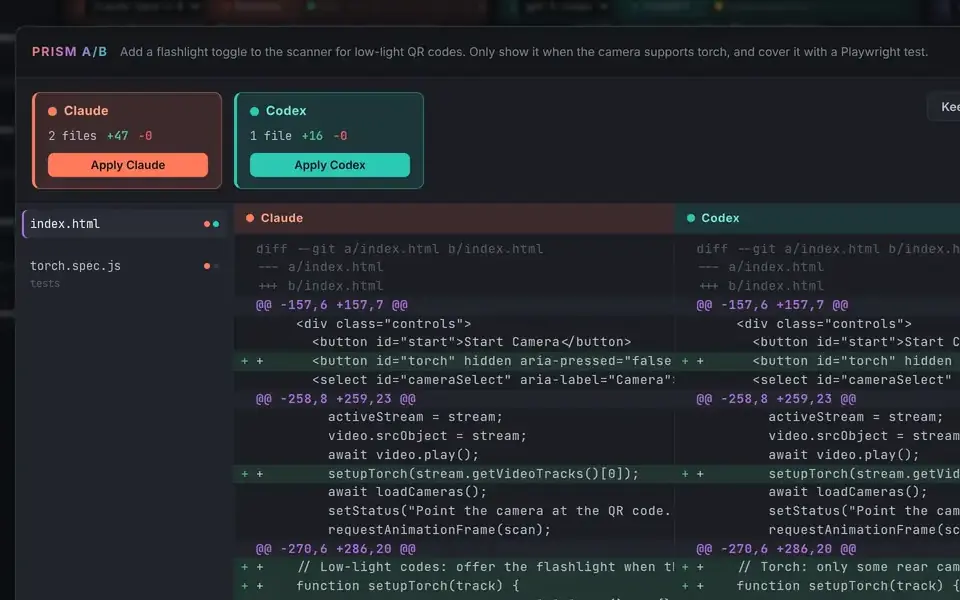
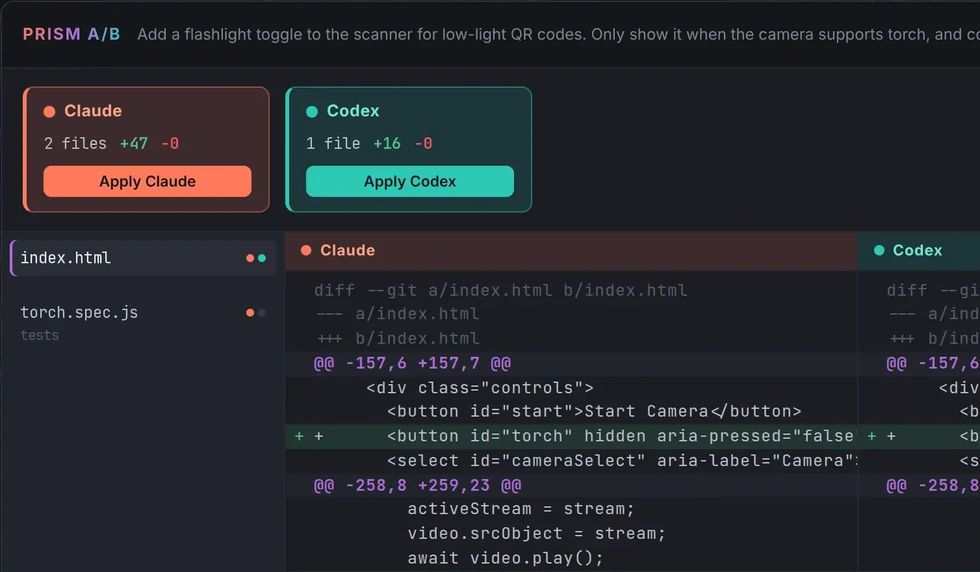
showcase: art round 2, the plan surveyed, doors as one family, the Bayzyl elevation
- hall plan: walls end on the surfaces they meet, rooms get doorways, piers in the ring, prism centred and inlaid,
  non-scaling strokes snapped to pixels, day-mode survey line and warm lantern, hover fill under the outline
- doors: one inset and gutter, 3x2 mosaic (home first view 22 -> 19 requests), Helm faces in two even rows,
  PrismCode door re-cropped from the 2x capture, text rows aligned across each pair via subgrid, subtitles clamped
- bench: a tower elevation drawn from the real /hcyl and /hpyramid numbers beside the stepper; step nav under the caption
- rooms: every band keeps color-scheme dark; notebook stays a blueprint band in day mode; 7x3 arcade wall;
  era placards beside the stage at wide widths

Claude-Session: https://claude.ai/code/session_01LNDcbCcy64DGsNuWVV1hR6

diff --git a/showcase/prismet-site/src/site.css b/showcase/prismet-site/src/site.css
@@ -168,29 +168,37 @@ section { scroll-margin-top: calc(var(--bar) + 12px); }
 .directory a:hover { border-color: var(--brass); }
 .ctas { display: flex; flex-wrap: wrap; gap: 10px; margin-top: 24px; }
 
-/* the hall plan */
-.plan { margin: 0; position: relative; }
+/* the hall plan: surveyed linework. Weights are screen pixels (non-scaling): court 1.5, rotunda 1.25, rooms, walls and
+   piers 1, the inner court and inner ring 1 at half strength, inlays 2. Axis-aligned lines snap to the pixel grid. */
+.plan { margin: 0; position: relative; --survey: var(--line); --beacon: var(--lantern); --glow: color-mix(in srgb, var(--lantern) 26%, transparent); --glow-blend: screen; --prism-fill: color-mix(in srgb, var(--brass) 14%, transparent); }
+:root[data-theme="light"] .plan, :root.day .plan { --survey: #5E7B93; --beacon: var(--brass); --glow: color-mix(in srgb, #F8D0A0 34%, transparent); --glow-blend: multiply; --glow-stop: 58%; --prism-fill: color-mix(in srgb, var(--brass) 8%, transparent); }
+@media (prefers-color-scheme: light) { :root:not([data-theme="dark"]) .plan { --survey: #5E7B93; --beacon: var(--brass); --glow: color-mix(in srgb, #F8D0A0 34%, transparent); --glow-blend: multiply; --glow-stop: 58%; --prism-fill: color-mix(in srgb, var(--brass) 8%, transparent); } }
 .plan svg { width: 100%; height: auto; overflow: visible; font-family: var(--serif); }
-.plan .court, .plan .rotunda, .plan .room, .plan .wall, .plan .pier { fill: none; stroke: var(--line); stroke-width: 1.2; vector-effect: non-scaling-stroke; }
-.plan .court.inner, .plan .rotunda.inner { stroke-opacity: .55; }
-.plan .pier { fill: color-mix(in srgb, var(--line) 35%, transparent); }
-.plan .prism { fill: none; stroke: var(--brass); stroke-width: 2; stroke-linejoin: round; }
-.plan .beam-in { stroke: var(--ink); stroke-width: 2; stroke-linecap: round; opacity: .8; }
-.plan .beacon { stroke: var(--lantern); stroke-width: 1; opacity: .5; }
-.plan .inlay { stroke-width: 3; stroke-linecap: round; }
+.plan .court, .plan .rotunda, .plan .room, .plan .wall, .plan .pier { fill: none; stroke: var(--survey); stroke-width: 1; vector-effect: non-scaling-stroke; }
+.plan .court { stroke-width: 1.5; }
+.plan .rotunda { stroke-width: 1.25; }
+.plan .court.inner, .plan .rotunda.inner { stroke-width: 1; stroke-opacity: .5; }
+.plan .court, .plan .room, .plan .pier { shape-rendering: crispEdges; }
+.plan .pier { fill: color-mix(in srgb, var(--survey) 40%, transparent); }
+.plan .prism { fill: var(--prism-fill); stroke: var(--brass); stroke-width: 1.5; stroke-linejoin: miter; vector-effect: non-scaling-stroke; }
+.plan .beam-in { stroke: var(--ink); stroke-width: 1.5; opacity: .85; vector-effect: non-scaling-stroke; }
+.plan .beacon { stroke: var(--beacon); stroke-width: 1; opacity: .7; vector-effect: non-scaling-stroke; }
+.plan .inlay { stroke-width: 2; vector-effect: non-scaling-stroke; }
 .plan .room-fill { fill: var(--surface); opacity: 0; transition: opacity .25s; }
 .plan .room-name { font-size: 20px; fill: var(--ink); font-weight: 500; }
-.plan .room-lead { font-size: 16px; fill: var(--ink-2); font-style: italic; }
+.plan .room-lead { font-size: 17px; fill: var(--ink-2); font-style: italic; }
 .plan .wing { cursor: pointer; outline: none; }
 .plan .wing:hover .room-fill, .plan .wing:focus-visible .room-fill { opacity: 1; }
-.plan .wing:hover .room, .plan .wing:focus-visible .room { stroke: var(--ink); stroke-width: 1.6; }
+.plan .wing:hover .room, .plan .wing:focus-visible .room { stroke: var(--ink); stroke-width: 1.5; }
 .plan .wing:focus-visible .room { stroke: var(--brass); stroke-width: 3; }
 .plan .wing:hover .room-name { fill: var(--brass-ink); }
-.lantern { position: absolute; left: var(--lx, 50%); top: var(--ly, 50%); width: 42%; aspect-ratio: 1; transform: translate(-50%, -50%); pointer-events: none; opacity: var(--lo, .55);
-  background: radial-gradient(closest-side, color-mix(in srgb, var(--lantern) 22%, transparent), transparent 70%); mix-blend-mode: screen; transition: left .45s var(--ease), top .45s var(--ease), opacity .45s; }
-:root[data-theme="light"] .lantern, :root.day .lantern { mix-blend-mode: multiply; opacity: calc(var(--lo, .55) * .6); }
-@media (prefers-color-scheme: light) { :root:not([data-theme="dark"]) .lantern { mix-blend-mode: multiply; opacity: calc(var(--lo, .55) * .6); } }
+/* One lantern. At rest it pools in the rotunda; on a wing it widens to light the room. */
+.lantern { position: absolute; left: var(--lx, 50%); top: var(--ly, 50%); width: 30%; aspect-ratio: 1; transform: translate(-50%, -50%); pointer-events: none; opacity: var(--lo, .55);
+  background: radial-gradient(closest-side, var(--glow), transparent var(--glow-stop, 72%)); mix-blend-mode: var(--glow-blend); transition: left .45s var(--ease), top .45s var(--ease), width .45s var(--ease), opacity .45s; }
+.plan:has(.wing:hover, .wing:focus-visible) .lantern { width: 42%; }
 .plan figcaption { margin-top: 10px; font-size: var(--t-sm); color: var(--ink-3); font-style: italic; }
+/* The caption hangs below the drawing, so the figure is the drawing and the lantern's 50% is the rotunda. */
+@media (min-width: 901px) { .plan { margin-bottom: 40px; } .plan figcaption { position: absolute; top: 100%; left: 0; right: 0; } }
 .wing-list { display: none; list-style: none; padding: 0; margin: 12px 0 0; grid-template-columns: 1fr 1fr; gap: 6px 14px; font-style: normal; }
 .wing-list a { display: flex; align-items: center; gap: 9px; text-decoration: none; color: var(--ink); min-height: 44px; padding: 4px 0; border-bottom: 1px solid var(--hair); }
 .wing-list i { width: 14px; height: 3px; background: var(--h); border-radius: 2px; flex: none; }
@@ -200,10 +208,12 @@ section { scroll-margin-top: calc(var(--bar) + 12px); }
 .plan.draw .g-court [pathLength] { --d: 0; }
 .plan.draw .g-rotunda [pathLength] { --d: .35; }
 .plan.draw .wing [pathLength] { --d: calc(.6 + var(--i, 0) * .09); }
+.plan.draw .prism, .plan.draw .pier { animation: draw .9s var(--ease) .35s forwards, fill-in .5s var(--ease) 1.1s both; }   /* the inlay fills once its edge is drawn */
 .plan.draw text { opacity: 0; animation: appear .4s .9s forwards; }
 .plan.draw .wing text { animation-delay: calc(1.3s + var(--i, 0) * .09s); }
 @keyframes draw { to { stroke-dashoffset: 0; } }
 @keyframes appear { to { opacity: 1; } }
+@keyframes fill-in { from { fill-opacity: 0; } }
 
 @media (max-width: 900px) {
   .entrance .wrap { grid-template-columns: 1fr; }
@@ -234,33 +244,42 @@ section { padding-block: clamp(40px, 6vw, 80px); }
 #work { background: var(--surface); border-block: 1px solid var(--hair); }
 .count { font-size: .72rem; letter-spacing: .08em; text-transform: uppercase; color: var(--ink-3); }
 
-/* principal works: four doors */
-.doors { display: grid; grid-template-columns: 1fr 1fr; gap: clamp(20px, 3vw, 40px) clamp(20px, 3vw, 48px); }
-.door { display: grid; grid-template-rows: auto 1fr; gap: 16px; }
-.door-media { display: block; text-decoration: none; border: 1px solid var(--hair); background: var(--surface); overflow: hidden; position: relative; aspect-ratio: 16 / 10; }
+/* principal works: four doors, one family. Each module sits on its room's material inside a 16:10 frame, inset by one
+   margin (5% of the door's width) with one gutter (3%); below it, typeline, title, subtitle, facts and access share
+   rows across each pair of doors, so the two columns keep one rhythm whatever the copy. */
+.doors { --door-gap: clamp(28px, 4vw, 56px); display: grid; grid-template-columns: 1fr 1fr; column-gap: clamp(20px, 3vw, 48px); margin-bottom: calc(-1 * var(--door-gap)); }
+.door { display: grid; grid-template-rows: auto 1fr; align-content: start; padding-bottom: var(--door-gap); }
+@supports (grid-template-rows: subgrid) {
+  .door { grid-row: span 6; grid-template-rows: subgrid; row-gap: 0; }
+  .door-text { grid-row: span 5; display: grid; grid-template-rows: subgrid; row-gap: 0; }
+}
+.door-media { display: block; text-decoration: none; border: 1px solid var(--hair); background: var(--surface); overflow: hidden; position: relative; aspect-ratio: 16 / 10; container-type: inline-size; }
 .door-media:hover { border-color: var(--rule); }
-.door-media .mod { position: absolute; inset: 0; margin: 0; }
-.door-media img { width: 100%; height: 100%; object-fit: cover; }
-.door-text .typeline { display: flex; align-items: center; gap: 10px; font-size: .95rem; color: var(--hi); }
+.door-media .mod { position: absolute; inset: 0; margin: 0; padding: 5%; padding: 5cqw; }
+.door-text > * { align-self: start; }
+.door-text .typeline { margin-top: 18px; display: flex; align-items: center; gap: 10px; font-size: .95rem; color: var(--hi); }
 .door-text .typeline i { width: 18px; height: 3px; background: var(--h); border-radius: 2px; }
-.door-text h3 { margin-top: 8px; font-size: var(--t-xl); }
+.door-text h3 { margin-top: 6px; font-size: var(--t-xl); }
 .door-text h3 a { text-decoration: none; }
 .door-text h3 a:hover { color: var(--brass-ink); }
-.door-text .sub { margin-top: 8px; color: var(--ink-2); font-size: var(--t-base); line-height: 1.5; display: -webkit-box; -webkit-line-clamp: 3; -webkit-box-orient: vertical; overflow: hidden; }
-.door-text .facts { margin-top: 14px; }
+.door-text .sub { margin-top: 8px; color: var(--ink-2); font-size: var(--t-base); line-height: 1.5; display: -webkit-box; -webkit-line-clamp: 2; line-clamp: 2; -webkit-box-orient: vertical; overflow: hidden; }
+.door-text .facts { margin-top: 16px; align-self: stretch; }
 .door-text .access { margin-top: 14px; display: flex; flex-wrap: wrap; align-items: center; gap: 8px 16px; }
 @media (max-width: 760px) { .doors { grid-template-columns: 1fr; } }
 
 /* door modules */
-.bench-door img { object-fit: cover; object-position: center 60%; }
-.bench-door figcaption { position: absolute; left: 0; right: 0; bottom: 0; padding: 10px 14px; background: color-mix(in srgb, #0B0D0F 86%, transparent); color: #FFAA00; display: flex; justify-content: space-between; gap: 12px; align-items: baseline; font-family: var(--mono); font-stretch: 87.5%; font-size: .78rem; }
+.bench-door { background: #2A2C2E; display: flex; flex-direction: column; gap: 2.5cqw; }
+.bench-door img { flex: 1 1 0; min-height: 0; width: 100%; object-fit: cover; object-position: center 58%; }
+.bench-door figcaption { display: flex; justify-content: space-between; gap: 12px; align-items: baseline; color: #FFAA00; font-family: var(--mono); font-stretch: 87.5%; font-size: .78rem; line-height: 1.25; }
 .bench-door figcaption span { color: #E6E1D4; font-family: var(--serif); font-style: italic; font-size: .92rem; font-stretch: normal; }
-.tile-mosaic { display: grid; grid-template-columns: repeat(3, 1fr); gap: 6%; padding: 7%; background: #0B0C14; }
-.tile-mosaic img { width: 100%; height: auto; border-radius: 18%; box-shadow: 0 10px 24px rgba(0, 0, 0, .5); }
-.face-quad { display: grid; grid-template-columns: 1fr 1fr; gap: 4%; padding: 5%; background: #1C0006; align-content: center; }
-.face-quad img { width: 100%; height: auto; box-shadow: 0 10px 24px rgba(0, 0, 0, .5); }
-.plate-door img { object-fit: cover; object-position: top left; }
-[data-room="notebook"] .plate-door img { width: 150%; height: 150%; max-width: none; object-position: 0 0; }
+.tile-mosaic { background: #0B0C14; display: grid; grid-template-columns: repeat(3, 24.75cqw); grid-auto-rows: 24.75cqw; gap: 3cqw; justify-content: center; align-content: center; }
+.tile-mosaic img { width: 100%; height: 100%; border-radius: 18%; box-shadow: 0 8px 20px rgba(0, 0, 0, .45); }
+.face-quad { background: #1C0006; display: flex; flex-direction: column; justify-content: center; gap: 3cqw; }
+.face-row { display: grid; gap: 3cqw; }      /* columns are set per row, in proportion to each face */
+.face-row img { width: 100%; height: auto; box-shadow: 0 8px 20px rgba(0, 0, 0, .45); }
+.plate-door { display: flex; align-items: center; justify-content: center; }
+.plate-door img { width: 100%; height: 100%; object-fit: cover; object-position: top left; }
+[data-room="notebook"] .plate-door { background: #17212B; }   /* a detail of the A/B panel, cut at the panel's own top-left corner */
 
 /* facts: the ledger table */
 .facts { display: grid; grid-template-columns: repeat(auto-fit, minmax(140px, 1fr)); gap: 0; border-top: 1px solid var(--rule); border-bottom: 1px solid var(--rule); margin: 0; }
@@ -465,6 +484,7 @@ footer a:hover { color: var(--ink); }
 /* ── rooms: the material of each page ─────────────────────────────────────────────────────── */
 [data-room="bench"] .sig { background: #2A2C2E; color: #E6E1D4; --brass: #C9A260; --live: #9C8BD6; --ink: #E6E1D4; --ground: #2A2C2E; --surface: #343639; --ink-2: #C8C3B6; --ink-3: #9A958A; --rule: rgba(230, 225, 212, .22); --hair: rgba(230, 225, 212, .1); --brass-ink: #E0BC6E; }
 [data-room="bench"] .sig { padding-block: 28px 32px; }
+[data-room] .sig { color-scheme: dark; }   /* every band stays dark in day mode, so native controls and scrollbars do too */
 .stepper { display: grid; gap: 14px; }
 .steps { list-style: none; padding: 0; margin: 0; display: grid; gap: 28px; max-width: 820px; }
 .js .step { grid-area: 1 / 1; }
@@ -479,10 +499,30 @@ footer a:hover { color: var(--ink); }
 .step-nav output { font-family: var(--mono); font-stretch: 87.5%; font-size: .74rem; letter-spacing: .06em; color: var(--ink-2); min-width: 7em; text-align: center; }
 .step-nav .btn { width: 44px; padding: 0; justify-content: center; }
 .js .steps { transition: none; }
-@media (min-width: 900px) { .stepper { grid-template-columns: minmax(0, 1fr) auto; align-items: end; } }
+/* the bench: the stepper, and beside it the tower drawn in elevation from its command (chalk on stone) */
+.bench-grid { display: grid; gap: 32px; align-items: start; }
+@media (min-width: 1000px) { .bench-grid { grid-template-columns: minmax(0, 820px) minmax(200px, 232px); justify-content: space-between; } }
+.elevation { margin: 0; display: grid; grid-template-columns: min(40%, 200px) minmax(0, 340px); gap: 20px; align-items: end; }
+@media (min-width: 1000px) { .elevation { display: block; } }
+.elevation svg { width: 100%; height: auto; overflow: visible; font-family: var(--mono); font-stretch: 87.5%; }
+.elevation .line, .elevation .fine, .elevation .ground, .elevation .dim, .elevation .axis { fill: none; stroke: var(--ink); vector-effect: non-scaling-stroke; }
+.elevation .line { stroke-width: 1.25; stroke-opacity: .92; stroke-linejoin: miter; }
+.elevation .ground { stroke-width: 1.5; }
+.elevation .fine { stroke-width: 1; stroke-opacity: .38; }
+.elevation .dim { stroke: var(--ink-3); stroke-width: 1; }
+.elevation .axis { stroke: var(--ink-3); stroke-width: 1; stroke-dasharray: 14 3 2 3; vector-effect: none; }
+.elevation text { font-size: 13px; font-weight: 500; fill: var(--ink-2); dominant-baseline: central; }
+@media (max-width: 999px) { .elevation text { font-size: 17px; } }   /* the drawing is smaller beside its caption */
+.elevation figcaption { display: grid; gap: 6px; justify-items: start; }
+@media (min-width: 1000px) { .elevation figcaption { margin-top: 14px; } }
+.elevation .elev-title { font-family: var(--serif); font-variant-caps: all-small-caps; letter-spacing: .06em; font-weight: 500; font-variation-settings: 'opsz' 20; font-size: .95rem; color: var(--ink-3); }
+.elevation .cmd { font-size: .76rem; line-height: 1.45; color: #FFAA00; overflow-wrap: anywhere; }
+.elevation .cmd b { font-weight: 500; color: var(--ink); white-space: nowrap; }   /* the numbers the drawing is dimensioned from */
+.elevation small { margin-top: 2px; font-style: italic; font-size: var(--t-sm); line-height: 1.4; color: var(--ink-2); }
 
 [data-room="arcade"] .sig { background: #0B0C14; color: #F2F4FC; --brass: #C9A260; --live: #9C8BD6; --ink: #F2F4FC; --ground: #0B0C14; --surface: #161828; --ink-2: #C3C5D4; --ink-3: #8E91A3; --rule: rgba(242, 244, 252, .2); --hair: rgba(242, 244, 252, .1); --brass-ink: #E2B65C; padding-block: 28px 36px; }
 .tiles { list-style: none; padding: 0; margin: 0; display: grid; grid-template-columns: repeat(auto-fill, minmax(96px, 1fr)); gap: 18px 14px; }
+@media (min-width: 760px) { .tiles { grid-template-columns: repeat(7, minmax(0, 1fr)); gap: 22px 14px; } }   /* 21 tiles, three full rows */
 .tiles li { text-align: center; font-size: .9rem; }
 .tiles img { width: 72px; height: 72px; margin: 0 auto 8px; border-radius: 17px; box-shadow: 0 8px 20px rgba(0, 0, 0, .5); }
 .tiles span { display: block; font-weight: 500; }
@@ -514,13 +554,19 @@ footer a:hover { color: var(--ink); }
 .era-dial span { display: inline-flex; align-items: center; min-height: 44px; padding: 0 16px; border: 1px solid var(--rule); font-style: italic; cursor: pointer; }
 .era-dial input:checked + span { background: #EADFC8; color: #1B1710; border-color: #EADFC8; }
 .era-dial input:focus-visible + span { outline: 2px solid var(--brass-ink); outline-offset: 3px; }
+@media (min-width: 1000px) {   /* the placards stand beside the stage, like labels beside an exhibit */
+  .js .eras { grid-template-columns: minmax(0, 760px) auto; justify-content: start; align-items: end; column-gap: 28px; }
+  .js .era-dial { flex-direction: column; }
+  .js .era-dial label { display: flex; }
+  .js .era-dial span { flex: 1; }
+}
 .js .eras:has(input[value="medieval"]:checked) .era-industrial, .js .eras:has(input[value="medieval"]:checked) .era-dyson { clip-path: inset(0 0 0 100%); }
 .js .eras:has(input[value="industrial"]:checked) .era-dyson { clip-path: inset(0 0 0 100%); }
 .js .eras:has(input[value="industrial"]:checked) .era-industrial { clip-path: inset(0); }
 .js .eras:has(input[value="dyson"]:checked) .era-dyson, .js .eras:has(input[value="dyson"]:checked) .era-industrial { clip-path: inset(0); }
 @supports not selector(:has(a)) { .era-dial { display: none; } .era-stage { display: grid; grid-template-columns: repeat(3, 1fr); aspect-ratio: auto; } .era-stage img, .js .era-stage img { grid-area: auto; } }
 
-[data-room="notebook"] .sig { padding-block: 24px 32px; background: var(--surface); border-block: 1px solid color-mix(in srgb, var(--line) 60%, transparent); }
+[data-room="notebook"] .sig { padding-block: 24px 32px; background: #17212B; color: #E6E1D4; --ground: #0F161D; --surface: #17212B; --raised: #1E2934; --ink: #E6E1D4; --ink-2: #B5BCC0; --ink-3: #8C959B; --line: #4E7090; --rule: rgba(230, 225, 212, .22); --hair: rgba(230, 225, 212, .12); --brass: #C9A260; --brass-ink: #D9B978; --live: #9C8BD6; border-block: 1px solid color-mix(in srgb, #2D5878 80%, transparent); }
 .notebook-grid { display: grid; grid-template-columns: minmax(0, 1fr) minmax(0, 1fr); gap: 28px; align-items: start; }
 .notebook-plate { margin: 0; }
 .notebook-plate img { width: 100%; height: auto; border: 1px solid var(--hair); }

diff --git a/showcase/prismet-site/content/site.md b/showcase/prismet-site/content/site.md
@@ -307,6 +307,15 @@ Previous step
 ## bench.next
 Next step
 
+## art.elevation_title
+Step {n}, in elevation
+
+## art.elevation_note
+Drawn from the numbers in the two commands, one unit per block.
+
+## art.elevation_alt
+The tower drawn in elevation: a hollow cylinder {w} blocks across and {h} high, under a stepped roof {s} layers high.
+
 ## arcade.title
 Each game with its own hand-built look
 
